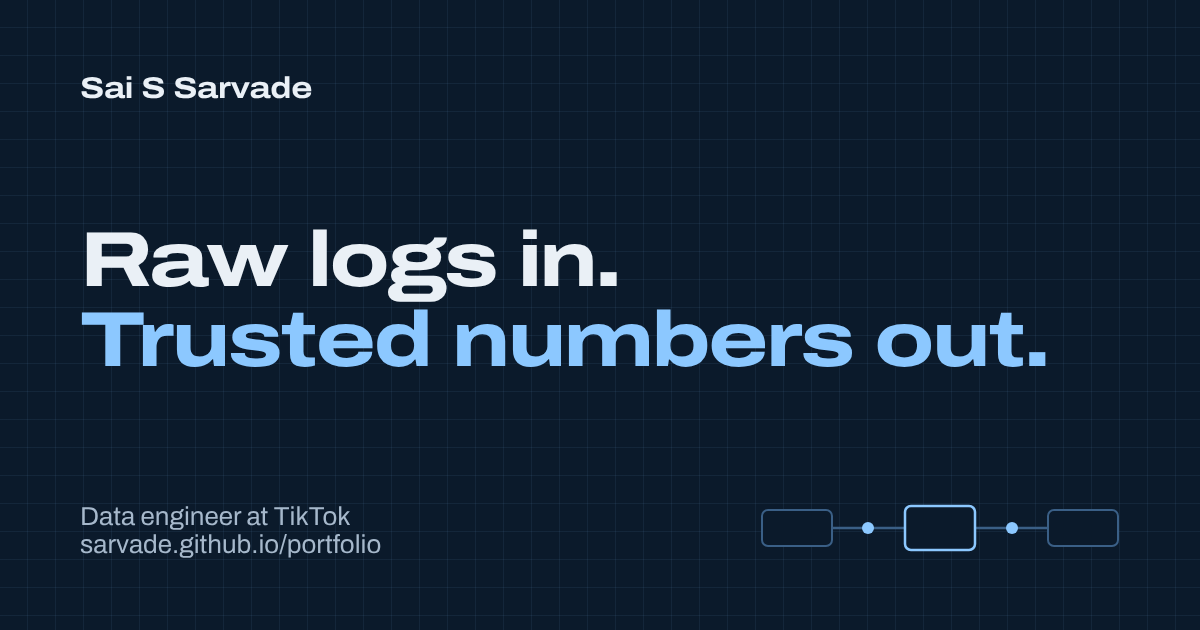
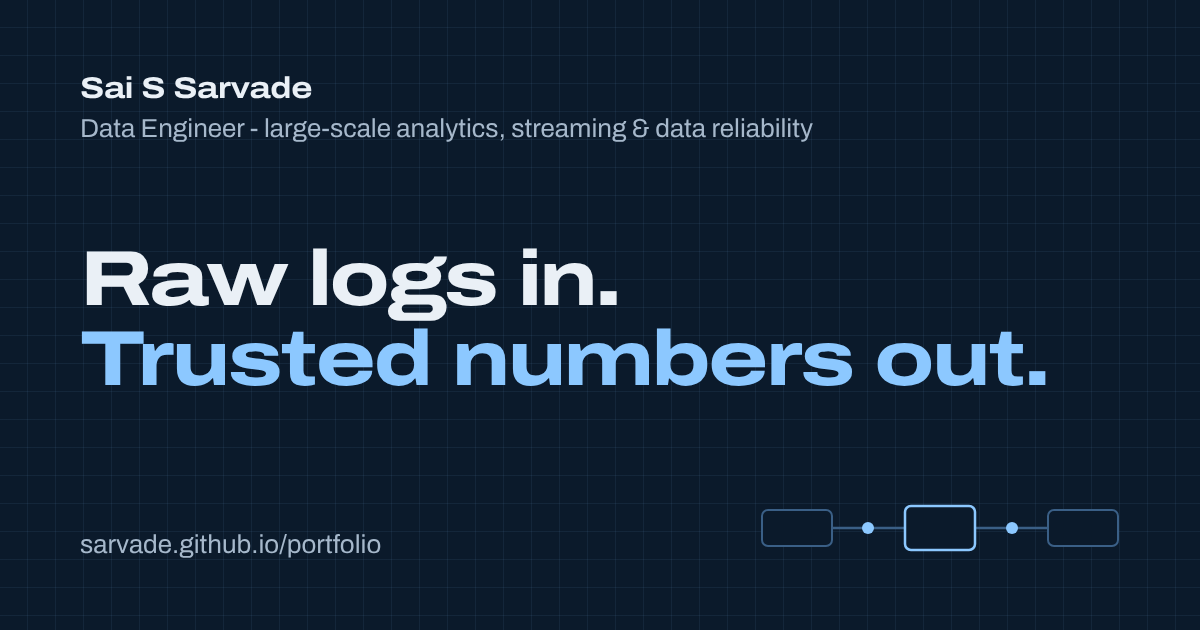
Five featured studies, less internal detail, plainer copy
- Homepage features five case studies, then "View all 13".
- Scale band: "Tens of TB" a day, realtime + daily paths, clearer
  labels for 15M+ users and 19 countries.
- OLAP story and blog post use relative numbers instead of internal
  limits and config names; rankings and realtime gap drop config detail.
- Brand line in title, summary card and link preview.
- Hyphens instead of dashes; rewrote formulaic sentences.

Claude-Session: https://claude.ai/code/session_01YamEdbbe7PUhHssShbU1ij

diff --git a/src/data/profile.ts b/src/data/profile.ts
@@ -7,10 +7,12 @@
 export const site = {
   name: 'Sai S Sarvade',
   role: 'Data Engineer',
+  /** Brand line: page title, the at-a-glance card and link previews. Experience keeps the plain title. */
+  tagline: 'Data Engineer - large-scale analytics, streaming & data reliability',
   location: 'San Jose, CA',
   email: 'sai.s.sarvade@gmail.com',
   description:
-    'Sai S Sarvade is a data engineer who turns raw event logs into canonical datasets and metrics people can trust. 5+ years across TikTok and Delta Air Lines.',
+    'Sai S Sarvade, Data Engineer - large-scale analytics, streaming & data reliability. Raw event logs in, trusted datasets and metrics out. 5+ years across TikTok and Delta Air Lines.',
   /** File name inside /public. Replace the PDF to update the résumé everywhere. */
   resume: 'Sai_Sarvade_Resume.pdf',
   links: {
@@ -36,7 +38,7 @@ export const hero = {
     'a creator',
   ],
   intro:
-    'Data engineer at TikTok. I build the pipelines, canonical datasets, and metric definitions behind analytics products used by 15M+ people. Before that, I spent nearly four years building data pipelines at Delta Air Lines.',
+    'Data engineer at TikTok. I build the pipelines, canonical datasets, and metric definitions behind analytics products used by 15M+ people. Before that, I spent nearly 4 years building data pipelines at Delta Air Lines.',
   /**
    * Optional line shown in the at-a-glance card, e.g. 'Open to senior data engineering roles'.
    * Leave empty to hide it.
@@ -49,7 +51,7 @@ export const glance = [
   { label: 'Role', value: 'Data Engineer at TikTok' },
   { label: 'Experience', value: '5+ years (TikTok, Delta Air Lines)' },
   { label: 'Based in', value: 'San Jose, CA' },
-  { label: 'Focus', value: 'Data integrity, metric definitions, batch and streaming pipelines' },
+  { label: 'Focus', value: 'Large-scale analytics, streaming & data reliability' },
   { label: 'Core stack', value: 'SQL, Python, Spark, Flink, Airflow, dbt, Kafka, AWS' },
   { label: 'Education', value: 'MS, Rice University' },
 ];
@@ -102,7 +104,7 @@ export const experience: Job[] = [
         text: 'Own the multi-step ETL from raw event logs to the canonical datasets the company reports on, at 20 TB a day, and set the data integrity standards and delivery SLAs the team adopted.',
       },
       {
-        text: 'Took a creator-facing API from ~70% success at peak back to healthy by getting the OLAP engine to use an index it had silently stopped using: 40–80× fewer rows scanned per call, and only then a rate limit raised from 150 to 200 QPS.',
+        text: 'Took a creator-facing API from ~70% success at peak back to healthy by getting the OLAP engine to use an index it had quietly stopped using: 40-80× fewer rows scanned per call, and only then about 33% more serving capacity.',
         work: 'olap-api-cost',
       },
       {
@@ -164,20 +166,20 @@ export const experience: Job[] = [
 
 /**
  * "Scale I work at": context, shown as a compact row under the hero.
- * Every figure comes from the résumé or interview notes; ~7 PB a year is 20 TB a day × 365.
+ * Every figure comes from the résumé or interview notes ("tens of TB" = 20 TB+ a day).
  */
 export const scale = [
-  { value: '15M+', count: 15, suffix: 'M+', label: 'creators and sellers on the analytics products my data feeds' },
-  { value: '19', count: 19, label: 'countries on one global e‑commerce platform' },
+  { value: '15M+', count: 15, suffix: 'M+', label: 'creators and sellers served by analytics products powered by my data' },
+  { value: '19', count: 19, label: 'countries served by the analytics products I build for' },
   { value: '4', count: 4, label: 'data regions, each with its own compliance rules' },
-  { value: '~7 PB', count: 7, prefix: '~', suffix: ' PB', label: 'a year through pipelines I own (20 TB+ every day)' },
+  { value: 'Tens of TB', label: 'processed every day by pipelines I own' },
   { value: '1.5B+', count: 1.5, suffix: 'B+', label: 'events in one live-commerce stream my Flink jobs aggregated' },
-  { value: '46M+', count: 46, suffix: 'M+', label: 'rows in a single daily partition of one table' },
+  { value: 'Realtime + daily', label: 'streaming and batch paths feeding the same products' },
 ];
 
 /** Results: outcomes, each backed by a case study. `count` animates on first view (optional). */
 export const impact = [
-  { value: '40–80×', label: 'fewer rows scanned per API call after an OLAP query fix' },
+  { value: '40-80×', label: 'fewer rows scanned per API call after an OLAP query fix' },
   { value: '36', count: 36, label: 'region-months of revenue history rebuilt, behind row-level diffs in every region' },
   { value: '0', label: 'compliance findings moving regulated data across a residency boundary' },
   { value: '>24×', label: 'faster ingestion: 2 hours to under 5 minutes for 3M+ transactions a day' },
@@ -232,11 +234,11 @@ where  dt = '{{ ds }}';`,
   },
   {
     title: 'Fix cost before buying capacity',
-    body: 'When an API is failing, raising its limit is the reflex. I read the query plan first. The engine had silently stopped using an index, so every call scanned 8.24M rows; a one-line hint put the index back to work, cut that 40–80×, and only then did the limit go up.',
+    body: 'When an API is failing, the reflex is to raise its limit. I read the query plan first. The engine had quietly stopped using an index, so every call was scanning millions of rows. A one-line hint put the index back to work and cut that 40-80×, and only then did the limit go up.',
     proof: 'olap-api-cost',
   },
   {
-    title: 'Fix the access pattern, not just the query',
+    title: 'Fix the access pattern',
     body: 'When data is read the wrong way, query tuning hits a ceiling. Moving a ranking feature’s computation upstream into Flink, so the work happens as events arrive, cut query time and compute cost by orders of magnitude.',
     proof: 'realtime-rankings',
     lang: 'sql',
@@ -268,7 +270,7 @@ metrics:
       measure: active_user_count`,
   },
   {
-    title: 'Return a decision, not a question',
+    title: 'Answer with a decision',
     body: 'Ambiguous asks tend to turn into a month of “looking into it.” I split them into what is actually tractable and what is blocked, and why, then answer with a recommendation. One request split cleanly into a part that was tractable and a part policy ruled out, and the PM re-scoped the same day. The same habit avoided two builds nobody needed.',
   },
   {

diff --git a/scripts/og/og.html b/scripts/og/og.html
@@ -13,6 +13,7 @@
     padding: 72px 80px; display: flex; flex-direction: column; justify-content: space-between;
   }
   .name { font-size: 30px; font-weight: 700; font-stretch: 118%; letter-spacing: -0.01em; }
+  .tag { margin-top: 10px; color: #a6b8cb; font-size: 26px; }
   h1 { font-size: 78px; white-space: nowrap; line-height: 1.02; font-weight: 760; font-stretch: 125%; letter-spacing: -0.03em; }
   h1 .accent { color: #8cc8ff; }
   .foot { display: flex; justify-content: space-between; align-items: flex-end; color: #a6b8cb; font-size: 26px; }
@@ -20,10 +21,10 @@
 </style>
 </head>
 <body>
-  <p class="name">Sai S Sarvade</p>
+  <div><p class="name">Sai S Sarvade</p><p class="tag">Data Engineer - large-scale analytics, streaming &amp; data reliability</p></div>
   <h1>Raw logs in.<br><span class="accent">Trusted numbers out.</span></h1>
   <div class="foot">
-    <p>Data engineer at TikTok<br>sarvade.github.io/portfolio</p>
+    <p>sarvade.github.io/portfolio</p>
     <svg viewBox="0 0 360 60" aria-hidden="true">
       <path d="M60 30H300" stroke="#3a5f86" stroke-width="2.5"/>
       <rect x="2" y="12" width="70" height="36" rx="6" fill="#0b1a2b" stroke="#3a5f86" stroke-width="2"/>

diff --git a/src/content/blog/the-index-that-quietly-stopped-working.md b/src/content/blog/the-index-that-quietly-stopped-working.md
@@ -1,6 +1,6 @@
 ---
 title: The index that quietly stopped working
-description: An API was failing at peak and everyone wanted a higher rate limit. The real problem was a query that had silently stopped using its index.
+description: An API was failing at peak and the first idea was a higher rate limit. The real problem was a query that had quietly stopped using its index.
 pubDate: 2026-10-03T16:00:00Z
 tags:
   - olap
@@ -10,9 +10,9 @@ tags:
 
 The alert came in the usual way: an API failing at peak, its success rate down to about 70%. The fix everyone reached for first was the obvious one. Raise the rate limit.
 
-I owned the query behind that API, so before agreeing to anything I looked at what a single call actually cost. Every request was scanning 8.24 million rows in our OLAP cluster.
+I owned the query behind that API, so before agreeing to anything I looked at what a single call actually cost. Every request was scanning millions of rows in our OLAP cluster.
 
-That changes the conversation. If every call is that expensive, letting more of them through doesn't fix the API. It moves the incident into a shared cluster, where it can hurt everyone else's queries too.
+That changes the conversation. If every call is that expensive, letting more of them through doesn't fix the API. It moves the incident into the cluster behind it, where it can hurt other queries too.
 
 ## Reading the plan
 
@@ -20,19 +20,19 @@ I sat down with the owner of the cluster, which runs Apache Doris, and we read t
 
 Doris can use a prefix index to jump straight to the rows a query needs instead of reading everything. But there's a configured cap on how many scan keys it will build from a filter. Go past it and the engine stops using the index for that scan. It doesn't fail. It doesn't warn. It just reads a lot more data.
 
-Our `IN` list had grown past that cap, so the index had quietly stopped doing its job.
+Our `IN` list was past that cap, so the index had quietly stopped doing its job.
 
 ## The fix was one line
 
-A query hint on the scan-key setting (`max_scan_key_num`) put the index back to work. Rows scanned per call dropped by 40 to 80 times.
+A one-line query hint put the index back to work. Rows scanned per call dropped by 40 to 80 times.
 
-Then, and only then, I raised the rate limit from 150 to 200 queries per second, with the before-and-after numbers attached to the change. The success rate recovered, and the API has run under that limit since.
+Only after that did I raise the rate limit, by about a third, with the before and after numbers attached to the change. The success rate recovered, and the API has run under that limit since.
 
 ## Three months later
 
-During an infrastructure incident, traffic failed over to a backup environment that had none of this tuning. The same API hit its cap at about 250 queries per second, and a backend engineer asked for a quick patch.
+During an infrastructure incident, traffic failed over to a backup environment that had none of this tuning. The same API hit its cap, and a backend engineer asked for a quick patch.
 
-I said no, but I didn't stop at no. I gave him a rule: measure the real peak in the failover environment, agree on a threshold, and file a proper change only if traffic stays above it past the time we expect to fail back. Nothing unreviewed went in during the incident.
+I said no and gave him a rule instead: measure the real peak in the failover environment, agree on a threshold, and file a proper change only if traffic stays above it past the time we expect to fail back. Nothing unreviewed went in during the incident.
 
 ## What I took from it
 

diff --git a/src/content/blog/make-reruns-boring.md b/src/content/blog/make-reruns-boring.md
@@ -8,13 +8,13 @@ tags:
   - reliability
 ---
 
-Every pipeline gets rerun. A task times out and retries. An upstream table lands late and you clear the day. Someone finds a bug and you backfill three months. The question isn't whether a job will run twice on the same input. It's what happens when it does.
+Every pipeline gets rerun. A task times out and retries. An upstream table lands late and you clear the day. Someone finds a bug and you backfill three months. Sooner or later a job runs twice on the same input. What matters is what happens when it does.
 
 If the answer is anything other than "nothing changes," the pipeline isn't finished.
 
-## Delivery is not effect
+## Delivered twice, applied once
 
-A message arriving twice is normal. A payment applied twice is a bug. Most systems promise at-least-once delivery, and that's fine, as long as the write at the end is idempotent: doing it twice has the same effect as doing it once. No scheduler gives you that property. You build it.
+A message arriving twice is normal. A payment applied twice is a bug. Most systems promise at-least-once delivery, and that's fine, as long as the write at the end is idempotent: doing it twice has the same effect as doing it once. No scheduler gives you that property; you have to build it.
 
 ## Pattern 1: overwrite the partition, don't append
 

diff --git a/src/content/blog/where-llms-earn-their-keep.md b/src/content/blog/where-llms-earn-their-keep.md
@@ -39,7 +39,7 @@ I gave them aggregates I could stand behind, said plainly what my tables could a
 1. **Numbers come from queries, never from the model.** If a model is involved, it writes or explains the query. The warehouse runs it, and the result is shown next to the query that produced it.
 2. **Scope before you answer.** Say what the data covers and what it doesn't: an estimate at attribution time is not a settled amount, and event time is not processing time. Half of all wrong numbers are right answers to a different question.
 3. **Aggregate by default.** Model output gets pasted everywhere. Keep identifiers out of anything a model touches unless there's a specific reason.
-4. **Validate model-written SQL the way you validate your own.** Uniqueness on the key, a row-level diff against something trusted, a run-it-twice check. Generated code isn't special. It's code someone else wrote.
+4. **Validate model-written SQL the way you validate your own.** Uniqueness on the key, a row-level diff against something trusted, a run-it-twice check. Treat generated code like code from a new teammate: review it and test it.
 5. **Keep a person on the merge button.**
 
 ## A small example of the split
